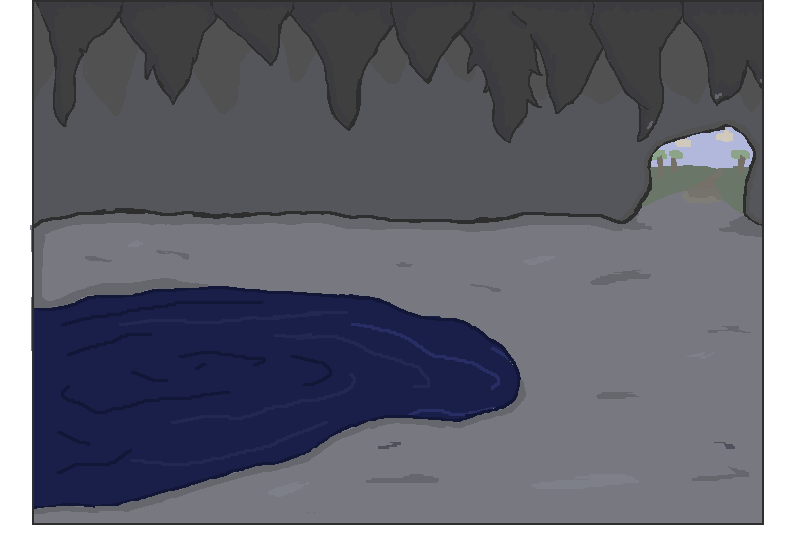
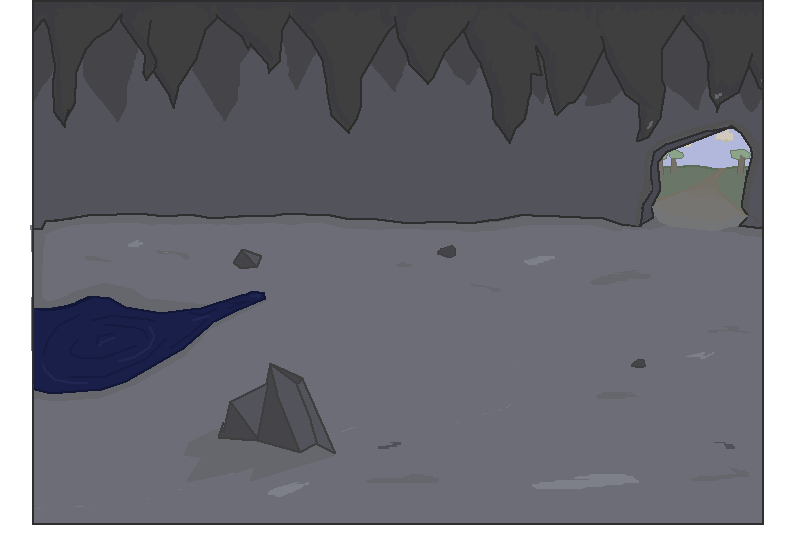
Comments and Cave
Re-worked spirte for cave and started commenting on a few of the states

diff --git a/js/menu.js b/js/menu.js
@@ -1,19 +1,19 @@
 var menuState = {
   create: function() {
-  // title
+
   bg = game.add.sprite(game.world.width/2,game.world.height/2, 'menu bg');
   bg.anchor.setTo(0.5);
 
-  title = game.add.text(500, 200, 'Subject 306', {font: '50px Orbitron', fill: '#000711'});
+  title = game.add.text(500, 200, 'Subject 306', {font: '50px Orbitron', fill: '#000711'}); //The Title of the Game
 
-// controls
+//The Controls for the game - the controls/buttons to allow the player to move the character
 help = game.add.text(100, 450, '', {font:  "Special Elite", fontSize: "30px", fill: '#000711'});
   helpText = 'W A S D keys to move \n';
   helpText += 'enter to select \n';
   helpText += 'p to pick up';
   help.text = helpText;
 
-//button to START
+//The Button to start the game
 button = game.add.button(game.world.centerX-100, game.world.centerY-50);
 button.scale.setTo(6, 2);
 //button.anchor.setTo(0.5,0.5);

diff --git a/js/game.js b/js/game.js
@@ -2,11 +2,11 @@
 var game = new Phaser.Game(1300, 610, Phaser.AUTO, 'game-world');
 
 //Add the different games states
-game.state.add('boot', bootState);
-game.state.add('load', loadState);
-game.state.add('menu', menuState);
-game.state.add('finalroom', finalroomState);
-game.state.add('roomOne', roomStateOne);
+game.state.add('boot', bootState); //The function that starts running the game
+game.state.add('load', loadState); //The function that loads all the assets into the game
+game.state.add('menu', menuState); //The Function that brings up the menu to start the game
+game.state.add('finalroom', finalroomState); //the function that loads the final puzzle room in the game
+game.state.add('roomOne', roomStateOne); //the function that loads the first puzzleroom
 game.state.add('roomtwo', roomStatetwo);
 game.state.add('library', libraryState);
 game.state.add('roomthree', roomthreeState);
